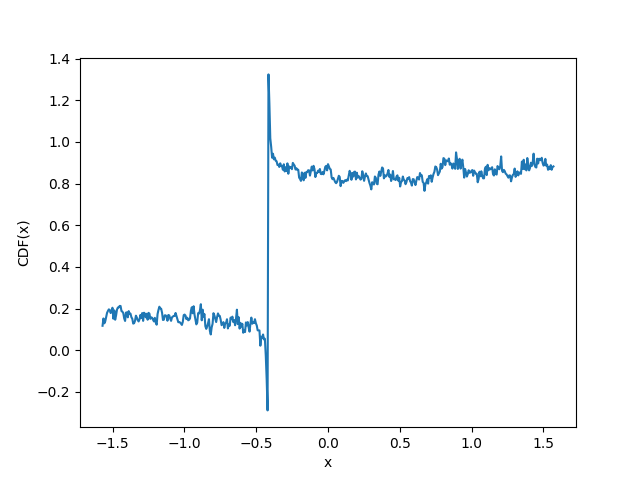
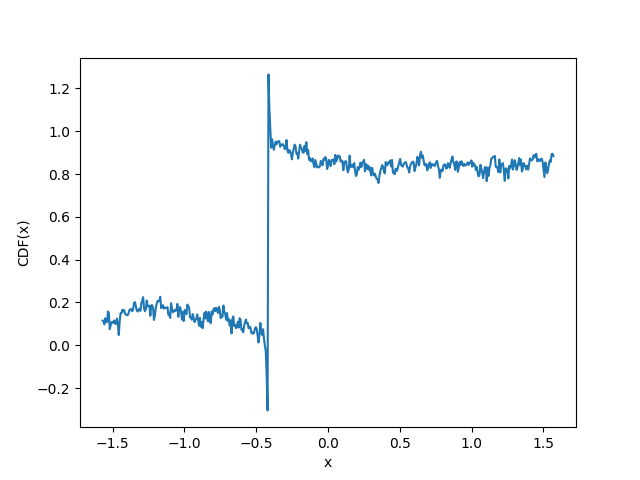
Adding Matrix based Pauli methods

diff --git a/src/circuits.py b/src/circuits.py
@@ -1,8 +1,9 @@
 import pennylane as qml
 import pennylane.numpy as np
 import numpy as num
+import time
 
-from pauli import reorder_pauli_rotation_products
+from pauli import reorder_pauli_rotation_products, get_exp_Pauli, get_Pauli_matrix
 import LCUSampling
 
 #full H exponential
@@ -34,8 +35,17 @@ def hadamard_test_pauli(pauli_product_red, pauli_product_phase):
 
     return qml.s_prod(pauli_product_phase, pauli_product_red)
 
+def hadamard_test_pauli_matrix(pauli_product_red, pauli_product_phase, n_qubits):
+    """
+    Return matrix of product of pauli_prod_red and scalar pauli_product_phase
+    """
+    return get_Pauli_matrix(pauli_product_red, n_qubits=n_qubits) * pauli_product_phase
+
 def hadamard_test_rotations(n_samples, rotation_pauli, rotation_pauli_signs, t: float, r: int):
+    """
     
+    NEEDS TO BE FIXED (REVERSE ORDER)
+    """
     #create vector for angles
     angles = np.zeros(len(n_samples))
     for i in range(len(angles)):
@@ -47,6 +57,22 @@ def hadamard_test_rotations(n_samples, rotation_pauli, rotation_pauli_signs, t: 
         rotations.append(qml.exp(rotation_pauli[ir], rotation_pauli_signs[ir] * angles[ir]* 1j))
 
     return qml.prod(*rotations)
+
+def hadamard_test_rotations_matrix(n_samples, rotation_pauli, rotation_pauli_signs, t: float, r: int, n_qubits: int):
+    """
+    Returns the product of Pauli rotations as Matrix
+    
+    """
+    angles = np.zeros(len(n_samples))
+    for i in range(len(angles)):
+        angles[i] = LCUSampling.theta(n_samples[i], t, r)
+    
+    product_rotation = get_Pauli_matrix(qml.Identity(n_qubits), n_qubits)
+    for i, P in enumerate(rotation_pauli):
+        theta = LCUSampling.theta(n_samples[i], t, r)
+        rot = get_exp_Pauli(P, theta = rotation_pauli_signs[i] * theta, return_matrix=True, n_qubits=n_qubits)
+        product_rotation = rot @ product_rotation
+    return product_rotation
 
 def hadamard_test_randomized(pauli_prod, rotation, measure = 'real'):
     """
@@ -61,6 +87,27 @@ def hadamard_test_randomized(pauli_prod, rotation, measure = 'real'):
     qml.Hadamard(wires = control_wires)
     qml.ControlledQubitUnitary(qml.matrix(rotation), wires = rotation_wires, control_wires = control_wires)
     qml.ControlledQubitUnitary(qml.matrix(pauli_prod), wires = pauli_wires, control_wires = control_wires) 
+    
+
+    #real or imaginary
+    if measure=='imag':
+        qml.adjoint(qml.S(wires=control_wires))
+
+    qml.Hadamard(wires=control_wires)
+
+def hadamard_test_randomized_matrix(pauli_prod_matrix, rotation_matrix, n_qubits, measure = 'real'):
+    """
+    Returns Hadamard test samples for randomized Hamiltonian evolution implementation
+    
+    """
+
+    control_wires = [0]
+    pauli_wires = [i + 1 for i in range(n_qubits)]#list(num.array(pauli_prod.wires)+1)
+    rotation_wires = [i + 1 for i in range(n_qubits)]#list(num.array(rotation.wires)+1)
+
+    qml.Hadamard(wires = control_wires)
+    qml.ControlledQubitUnitary(rotation_matrix, wires = rotation_wires, control_wires = control_wires)
+    qml.ControlledQubitUnitary(pauli_prod_matrix, wires = pauli_wires, control_wires = control_wires) 
     
 
     #real or imaginary
@@ -119,6 +166,14 @@ def make_circuit_randomized(pauli_prod, rotations, hf_list, measure = 'real'):
 
     return qml.sample(wires=control_wires)
 
+def make_circuit_randomized_matrix(pauli_prod_matrix, rotations_matrix, hf_list, n_qubits, measure = 'real'):
+    control_wires = [0]
+    #adds X gates to initialize psi
+    prepare_initial_state(state_type='hf', hf_list=hf_list, start_wire=len(control_wires))
+    hadamard_test_randomized_matrix(pauli_prod_matrix, rotations_matrix, n_qubits=n_qubits, measure= measure)
+
+    return qml.sample(wires=control_wires)
+
 
 def get_gk(k, nk, hamiltonian, n_qubits, hf_list, tau, measure = 'real'):
     """
@@ -164,6 +219,46 @@ def get_randomized_gk(H, k: int, nk:int, n_qubits: int, hf_list, n_samples, l_sa
     #fig, ax = qml.draw_mpl(circuit_qnode)(pauli, rotations, hf_list, measure) #to draw circuit
     #fig.savefig("C:/Users/sstb2/Kuantum/figures/circuit.png")
     return 1-2*np.array(samples) #, exp_from_samples(samples)
+
+def get_randomized_gk_matrix(H, k: int, nk:int, n_qubits: int, hf_list, n_samples, l_samples, t, r, measure = "real", tau = 1):
+                    # N_thermalization: int = 10000, reduced_range: int = 10, move_range: int = 20, n_max: int = 200, r: int=1000):
+    """
+    Run state prep, hadamard test and get samples and ancilla expectation.
+
+    measure: 'real' / 'imag'
+
+    Inputs: H Hamiltonian as linear combination of Paulis, k sample index, n_qubits number of qubits, hf_list Hartree-Fock state, tau time parameter, measure "real" or "imag" (default "real"), N_thermalization reduced_range move_range n_max for LCU sampling, r number of Taylor series terms to sample
+
+    intializes hf basis ground state
+    """
+
+    #get Pauli rotations and products
+    start_time = time.time()
+    rotation_pauli, rotation_pauli_signs, pauli_product_red, pauli_product_phase = reorder_pauli_rotation_products(H, n_samples, l_samples)
+    print('Time for matrix reorder: {}'.format(time.time() - start_time))
+    start_time = time.time()
+    rotations_matrix = hadamard_test_rotations_matrix(n_samples, rotation_pauli, rotation_pauli_signs, t, r, n_qubits = n_qubits)
+    print('Time for matrix rotations: {}'.format(time.time() - start_time))
+    start_time = time.time()
+    pauli_matrix = hadamard_test_pauli_matrix(pauli_product_red, pauli_product_phase * (-1.0j)**(num.sum(n_samples)), n_qubits = n_qubits)
+    print('Time for pauli product: {}'.format(time.time() - start_time))
+
+    #verifying unitary
+    U = get_U(H= H, tau = tau, k = k)
+    Umatrix = pauli_matrix @ rotations_matrix
+    print('Difference Norm:', np.linalg.norm(U - Umatrix))
+    print('Norms: ', np.linalg.norm(U),  np.linalg.norm(Umatrix))
+
+    start_time = time.time()
+    dev = qml.device("lightning.qubit", wires=n_qubits+1, shots=nk)
+    circuit_qnode = qml.QNode(make_circuit_randomized_matrix, dev)
+    print('Time for making qnode: {}'.format(time.time() - start_time))
+
+    start_time = time.time()
+    samples = circuit_qnode(pauli_matrix, rotations_matrix, hf_list, n_qubits, measure)
+    print('Time for making sampling: {}'.format(time.time() - start_time))
+
+    return 1-2*np.array(samples)
 
 def get_rs_lists(nk_list, hamiltonian, n_qubits: int, hf_list, tau: float):
     """

diff --git a/src/pauli.py b/src/pauli.py
@@ -1,6 +1,7 @@
 #utils and methods with Pauli
 import pennylane as qml
 import pennylane.numpy as np
+import time
 #import LCUSampling
 
 def multiply_pauli_list_with_phase(pwds, reverse = False):
@@ -61,13 +62,19 @@ def reorder_pauli_rotation_products(H, n_list, l_list):
     for nr in n_list:
         #commute rotation through to start
         rotation_pauli.append(pauli_list[0])
+        start_time = time.time()
         if qml.is_commuting(pauli_product_red, pauli_list[0]):
             rotation_pauli_signs.append(1*pauli_signs[0])
         else:
             rotation_pauli_signs.append(-1*pauli_signs[0])
+        #print('Time for checking commutation: {}'.format(time.time() - start_time))
+
         
         #multiply paulis
+        start_time = time.time()
         pauli_product_red, phase = multiply_pauli_list_with_phase([pauli_product_red] + pauli_list[1:nr+1], reverse=True)
+        #print('Time for pauli product multiplication in reorder: {}'.format(time.time() - start_time))
+
         pauli_product_phase *= phase
         pauli_product_phase = np.product([pauli_product_phase] + pauli_signs[1:nr+1])
 
@@ -75,6 +82,29 @@ def reorder_pauli_rotation_products(H, n_list, l_list):
         pauli_signs = pauli_signs[nr + 1:]
 
     return rotation_pauli, rotation_pauli_signs, pauli_product_red, pauli_product_phase
+
+def get_Pauli_matrix(P, n_qubits):
+    wire_map = {i: i for i in range(n_qubits)}
+    return qml.pauli.pauli_word_to_matrix(P, wire_map=wire_map)
+
+def get_Pauli_Identity(n_qubits):
+    return get_Pauli_matrix(qml.Identity(n_qubits), n_qubits)
+
+def get_exp_Pauli(P, theta, n_qubits, return_matrix = True):
+    """
+    Exponentiate P as exp(i*theta*P) where P is a Pauli word
+    P: qml.Pauli object
+
+    return_matrix:: True for matrix rep over n_qubits
+    
+    """
+    if return_matrix == True:
+        I_matrix = get_Pauli_matrix(qml.Identity(n_qubits), n_qubits)
+        P_matrix = get_Pauli_matrix(P, n_qubits = n_qubits)
+        return np.cos(theta)*I_matrix + 1.j*np.sin(theta)*P_matrix
+    else:
+        I = qml.Identity(wires = n_qubits)
+        return np.cos(theta)*I + 1.j*np.sin(theta)*P
 
 # def full_pauli_rotation(H, rotation_pauli: np.array, rotation_pauli_signs: np.array, term_degree: np,array, t: float, r: int):
 #     """
@@ -96,5 +126,3 @@ def reorder_pauli_rotation_products(H, n_list, l_list):
 #     multiplied_rotation = qml.prod(*rotations)
 
 #     return multiplied_rotation
-
-    

diff --git a/src/PhaseEstimation.py b/src/PhaseEstimation.py
@@ -4,7 +4,7 @@ import matplotlib.pyplot as plt
 import pickle as pkl
 
 from heaviside import normalization_constant
-from circuits import get_randomized_gk, get_gk
+from circuits import get_randomized_gk, get_gk, get_randomized_gk_matrix
 from hamiltonians import read_hamiltonian, decompose
 from binarysearch import acdf, invert_cdf
 from MonteCarlo import Metropolis
@@ -46,7 +46,7 @@ def StatisticalPhaseEstimation(inputs: dict, to_save: bool = False, save_path: s
             samples_n, samples_l = LCU_wtMC(r_k, t_k, pls, qns)
             print(f"Sampling done.")
             ##### Running the randomly sample LCU decomposition of the time evolution on a quantum circuit.
-            r = get_randomized_gk(hamiltonian,
+            r = get_randomized_gk_matrix(hamiltonian,
                                 k,
                                 num_k,
                                 decomposition['num_qubits'], 
@@ -55,8 +55,9 @@ def StatisticalPhaseEstimation(inputs: dict, to_save: bool = False, save_path: s
                                 samples_l,
                                 t = t_k,
                                 r = r_k,
-                                measure='real')
-            s = get_randomized_gk(hamiltonian,
+                                measure='real', 
+                                tau = decomposition['tau'])
+            s = get_randomized_gk_matrix(hamiltonian,
                                 k,
                                 num_k,
                                 decomposition['num_qubits'], 
@@ -65,7 +66,8 @@ def StatisticalPhaseEstimation(inputs: dict, to_save: bool = False, save_path: s
                                 samples_l,
                                 t = t_k,
                                 r = r_k,
-                                measure='imag')
+                                measure='imag',
+                                tau = decomposition['tau'])
             print(f"Quantum circuit run for k = {k}.")
             if num_k==1:
                 r_list.extend(np.array([r]))

diff --git a/src/samplecode.py b/src/samplecode.py
@@ -3,14 +3,11 @@ import pennylane.numpy as np
 import matplotlib.pyplot as plt
 import yaml as yml
 
-
-input_file = 'C:/Users/anjis/Documents/Kuantum/inputs/input.yaml'
+input_file = '/Users/praveenjayakumar/Documents/qhack/Kuantum/inputs/input.yaml'
 with open(input_file, 'r') as file:
     inputs = yml.safe_load(file)
 
 print(inputs)
 
 import PhaseEstimation as pe
-output  = pe.StatisticalPhaseEstimation_wtLCU(inputs, 
-                                                to_plot=False, plot_path='C:/Users/anjis/Documents/Kuantum/figures/plot_H2_LCU.png',
-                                                to_save=False, save_path='C:/Users/anjis/Documents/Kuantum/outputs/output_H2_LCU.pkl')
+output  = pe.StatisticalPhaseEstimation(inputs, to_plot=True, plot_path='/Users/praveenjayakumar/Documents/qhack/Kuantum/figures/plot.png')
